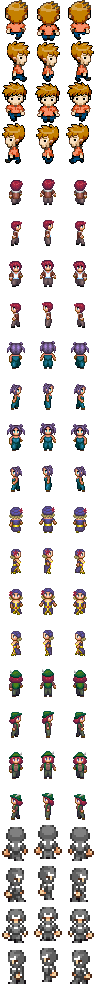
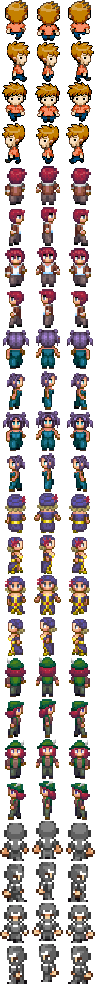
Match wardrobe character pixel heights and label Blond in Chinese

diff --git a/arena/avatars.js b/arena/avatars.js
@@ -1,2 +1,2 @@
-window.ArenaAvatarCatalog=[{"id": "ariel", "zh": "Ariel", "en": "Ariel"}, {"id": "cabbit-townfolk-m", "zh": "红发旅人", "en": "Red-haired traveler"}, {"id": "cabbit-townfolk-f", "zh": "紫发旅人", "en": "Purple-haired traveler"}, {"id": "cabbit-amanda", "zh": "金发帽子女孩", "en": "Amanda"}, {"id": "cabbit-ranger-f", "zh": "绿帽游侠", "en": "Green ranger"}, {"id": "antifarea-ninja-m", "zh": "黑衣忍者", "en": "Ninja"}];
+window.ArenaAvatarCatalog=[{"id": "ariel", "zh": "黄毛", "en": "Blond"}, {"id": "cabbit-townfolk-m", "zh": "红发旅人", "en": "Red-haired traveler"}, {"id": "cabbit-townfolk-f", "zh": "紫发旅人", "en": "Purple-haired traveler"}, {"id": "cabbit-amanda", "zh": "金发帽子女孩", "en": "Amanda"}, {"id": "cabbit-ranger-f", "zh": "绿帽游侠", "en": "Green ranger"}, {"id": "antifarea-ninja-m", "zh": "黑衣忍者", "en": "Ninja"}];
 window.ArenaAvatarFrames={"ariel-back": {"x": 32, "y": 0, "w": 32, "h": 41}, "ariel-back-walk.000": {"x": 0, "y": 0, "w": 32, "h": 41}, "ariel-back-walk.001": {"x": 32, "y": 0, "w": 32, "h": 41}, "ariel-back-walk.002": {"x": 64, "y": 0, "w": 32, "h": 41}, "ariel-back-walk.003": {"x": 32, "y": 0, "w": 32, "h": 41}, "ariel-right": {"x": 32, "y": 41, "w": 32, "h": 41}, "ariel-right-walk.000": {"x": 0, "y": 41, "w": 32, "h": 41}, "ariel-right-walk.001": {"x": 32, "y": 41, "w": 32, "h": 41}, "ariel-right-walk.002": {"x": 64, "y": 41, "w": 32, "h": 41}, "ariel-right-walk.003": {"x": 32, "y": 41, "w": 32, "h": 41}, "ariel-front": {"x": 32, "y": 82, "w": 32, "h": 41}, "ariel-front-walk.000": {"x": 0, "y": 82, "w": 32, "h": 41}, "ariel-front-walk.001": {"x": 32, "y": 82, "w": 32, "h": 41}, "ariel-front-walk.002": {"x": 64, "y": 82, "w": 32, "h": 41}, "ariel-front-walk.003": {"x": 32, "y": 82, "w": 32, "h": 41}, "ariel-left": {"x": 32, "y": 123, "w": 32, "h": 41}, "ariel-left-walk.000": {"x": 0, "y": 123, "w": 32, "h": 41}, "ariel-left-walk.001": {"x": 32, "y": 123, "w": 32, "h": 41}, "ariel-left-walk.002": {"x": 64, "y": 123, "w": 32, "h": 41}, "ariel-left-walk.003": {"x": 32, "y": 123, "w": 32, "h": 41}, "cabbit-townfolk-m-back": {"x": 32, "y": 164, "w": 32, "h": 41}, "cabbit-townfolk-m-back-walk.000": {"x": 0, "y": 164, "w": 32, "h": 41}, "cabbit-townfolk-m-back-walk.001": {"x": 32, "y": 164, "w": 32, "h": 41}, "cabbit-townfolk-m-back-walk.002": {"x": 64, "y": 164, "w": 32, "h": 41}, "cabbit-townfolk-m-back-walk.003": {"x": 32, "y": 164, "w": 32, "h": 41}, "cabbit-townfolk-m-right": {"x": 32, "y": 205, "w": 32, "h": 41}, "cabbit-townfolk-m-right-walk.000": {"x": 0, "y": 205, "w": 32, "h": 41}, "cabbit-townfolk-m-right-walk.001": {"x": 32, "y": 205, "w": 32, "h": 41}, "cabbit-townfolk-m-right-walk.002": {"x": 64, "y": 205, "w": 32, "h": 41}, "cabbit-townfolk-m-right-walk.003": {"x": 32, "y": 205, "w": 32, "h": 41}, "cabbit-townfolk-m-front": {"x": 32, "y": 246, "w": 32, "h": 41}, "cabbit-townfolk-m-front-walk.000": {"x": 0, "y": 246, "w": 32, "h": 41}, "cabbit-townfolk-m-front-walk.001": {"x": 32, "y": 246, "w": 32, "h": 41}, "cabbit-townfolk-m-front-walk.002": {"x": 64, "y": 246, "w": 32, "h": 41}, "cabbit-townfolk-m-front-walk.003": {"x": 32, "y": 246, "w": 32, "h": 41}, "cabbit-townfolk-m-left": {"x": 32, "y": 287, "w": 32, "h": 41}, "cabbit-townfolk-m-left-walk.000": {"x": 0, "y": 287, "w": 32, "h": 41}, "cabbit-townfolk-m-left-walk.001": {"x": 32, "y": 287, "w": 32, "h": 41}, "cabbit-townfolk-m-left-walk.002": {"x": 64, "y": 287, "w": 32, "h": 41}, "cabbit-townfolk-m-left-walk.003": {"x": 32, "y": 287, "w": 32, "h": 41}, "cabbit-townfolk-f-back": {"x": 32, "y": 328, "w": 32, "h": 41}, "cabbit-townfolk-f-back-walk.000": {"x": 0, "y": 328, "w": 32, "h": 41}, "cabbit-townfolk-f-back-walk.001": {"x": 32, "y": 328, "w": 32, "h": 41}, "cabbit-townfolk-f-back-walk.002": {"x": 64, "y": 328, "w": 32, "h": 41}, "cabbit-townfolk-f-back-walk.003": {"x": 32, "y": 328, "w": 32, "h": 41}, "cabbit-townfolk-f-right": {"x": 32, "y": 369, "w": 32, "h": 41}, "cabbit-townfolk-f-right-walk.000": {"x": 0, "y": 369, "w": 32, "h": 41}, "cabbit-townfolk-f-right-walk.001": {"x": 32, "y": 369, "w": 32, "h": 41}, "cabbit-townfolk-f-right-walk.002": {"x": 64, "y": 369, "w": 32, "h": 41}, "cabbit-townfolk-f-right-walk.003": {"x": 32, "y": 369, "w": 32, "h": 41}, "cabbit-townfolk-f-front": {"x": 32, "y": 410, "w": 32, "h": 41}, "cabbit-townfolk-f-front-walk.000": {"x": 0, "y": 410, "w": 32, "h": 41}, "cabbit-townfolk-f-front-walk.001": {"x": 32, "y": 410, "w": 32, "h": 41}, "cabbit-townfolk-f-front-walk.002": {"x": 64, "y": 410, "w": 32, "h": 41}, "cabbit-townfolk-f-front-walk.003": {"x": 32, "y": 410, "w": 32, "h": 41}, "cabbit-townfolk-f-left": {"x": 32, "y": 451, "w": 32, "h": 41}, "cabbit-townfolk-f-left-walk.000": {"x": 0, "y": 451, "w": 32, "h": 41}, "cabbit-townfolk-f-left-walk.001": {"x": 32, "y": 451, "w": 32, "h": 41}, "cabbit-townfolk-f-left-walk.002": {"x": 64, "y": 451, "w": 32, "h": 41}, "cabbit-townfolk-f-left-walk.003": {"x": 32, "y": 451, "w": 32, "h": 41}, "cabbit-amanda-back": {"x": 32, "y": 492, "w": 32, "h": 41}, "cabbit-amanda-back-walk.000": {"x": 0, "y": 492, "w": 32, "h": 41}, "cabbit-amanda-back-walk.001": {"x": 32, "y": 492, "w": 32, "h": 41}, "cabbit-amanda-back-walk.002": {"x": 64, "y": 492, "w": 32, "h": 41}, "cabbit-amanda-back-walk.003": {"x": 32, "y": 492, "w": 32, "h": 41}, "cabbit-amanda-right": {"x": 32, "y": 533, "w": 32, "h": 41}, "cabbit-amanda-right-walk.000": {"x": 0, "y": 533, "w": 32, "h": 41}, "cabbit-amanda-right-walk.001": {"x": 32, "y": 533, "w": 32, "h": 41}, "cabbit-amanda-right-walk.002": {"x": 64, "y": 533, "w": 32, "h": 41}, "cabbit-amanda-right-walk.003": {"x": 32, "y": 533, "w": 32, "h": 41}, "cabbit-amanda-front": {"x": 32, "y": 574, "w": 32, "h": 41}, "cabbit-amanda-front-walk.000": {"x": 0, "y": 574, "w": 32, "h": 41}, "cabbit-amanda-front-walk.001": {"x": 32, "y": 574, "w": 32, "h": 41}, "cabbit-amanda-front-walk.002": {"x": 64, "y": 574, "w": 32, "h": 41}, "cabbit-amanda-front-walk.003": {"x": 32, "y": 574, "w": 32, "h": 41}, "cabbit-amanda-left": {"x": 32, "y": 615, "w": 32, "h": 41}, "cabbit-amanda-left-walk.000": {"x": 0, "y": 615, "w": 32, "h": 41}, "cabbit-amanda-left-walk.001": {"x": 32, "y": 615, "w": 32, "h": 41}, "cabbit-amanda-left-walk.002": {"x": 64, "y": 615, "w": 32, "h": 41}, "cabbit-amanda-left-walk.003": {"x": 32, "y": 615, "w": 32, "h": 41}, "cabbit-ranger-f-back": {"x": 32, "y": 656, "w": 32, "h": 41}, "cabbit-ranger-f-back-walk.000": {"x": 0, "y": 656, "w": 32, "h": 41}, "cabbit-ranger-f-back-walk.001": {"x": 32, "y": 656, "w": 32, "h": 41}, "cabbit-ranger-f-back-walk.002": {"x": 64, "y": 656, "w": 32, "h": 41}, "cabbit-ranger-f-back-walk.003": {"x": 32, "y": 656, "w": 32, "h": 41}, "cabbit-ranger-f-right": {"x": 32, "y": 697, "w": 32, "h": 41}, "cabbit-ranger-f-right-walk.000": {"x": 0, "y": 697, "w": 32, "h": 41}, "cabbit-ranger-f-right-walk.001": {"x": 32, "y": 697, "w": 32, "h": 41}, "cabbit-ranger-f-right-walk.002": {"x": 64, "y": 697, "w": 32, "h": 41}, "cabbit-ranger-f-right-walk.003": {"x": 32, "y": 697, "w": 32, "h": 41}, "cabbit-ranger-f-front": {"x": 32, "y": 738, "w": 32, "h": 41}, "cabbit-ranger-f-front-walk.000": {"x": 0, "y": 738, "w": 32, "h": 41}, "cabbit-ranger-f-front-walk.001": {"x": 32, "y": 738, "w": 32, "h": 41}, "cabbit-ranger-f-front-walk.002": {"x": 64, "y": 738, "w": 32, "h": 41}, "cabbit-ranger-f-front-walk.003": {"x": 32, "y": 738, "w": 32, "h": 41}, "cabbit-ranger-f-left": {"x": 32, "y": 779, "w": 32, "h": 41}, "cabbit-ranger-f-left-walk.000": {"x": 0, "y": 779, "w": 32, "h": 41}, "cabbit-ranger-f-left-walk.001": {"x": 32, "y": 779, "w": 32, "h": 41}, "cabbit-ranger-f-left-walk.002": {"x": 64, "y": 779, "w": 32, "h": 41}, "cabbit-ranger-f-left-walk.003": {"x": 32, "y": 779, "w": 32, "h": 41}, "antifarea-ninja-m-back": {"x": 32, "y": 820, "w": 32, "h": 41}, "antifarea-ninja-m-back-walk.000": {"x": 0, "y": 820, "w": 32, "h": 41}, "antifarea-ninja-m-back-walk.001": {"x": 32, "y": 820, "w": 32, "h": 41}, "antifarea-ninja-m-back-walk.002": {"x": 64, "y": 820, "w": 32, "h": 41}, "antifarea-ninja-m-back-walk.003": {"x": 32, "y": 820, "w": 32, "h": 41}, "antifarea-ninja-m-right": {"x": 32, "y": 861, "w": 32, "h": 41}, "antifarea-ninja-m-right-walk.000": {"x": 0, "y": 861, "w": 32, "h": 41}, "antifarea-ninja-m-right-walk.001": {"x": 32, "y": 861, "w": 32, "h": 41}, "antifarea-ninja-m-right-walk.002": {"x": 64, "y": 861, "w": 32, "h": 41}, "antifarea-ninja-m-right-walk.003": {"x": 32, "y": 861, "w": 32, "h": 41}, "antifarea-ninja-m-front": {"x": 32, "y": 902, "w": 32, "h": 41}, "antifarea-ninja-m-front-walk.000": {"x": 0, "y": 902, "w": 32, "h": 41}, "antifarea-ninja-m-front-walk.001": {"x": 32, "y": 902, "w": 32, "h": 41}, "antifarea-ninja-m-front-walk.002": {"x": 64, "y": 902, "w": 32, "h": 41}, "antifarea-ninja-m-front-walk.003": {"x": 32, "y": 902, "w": 32, "h": 41}, "antifarea-ninja-m-left": {"x": 32, "y": 943, "w": 32, "h": 41}, "antifarea-ninja-m-left-walk.000": {"x": 0, "y": 943, "w": 32, "h": 41}, "antifarea-ninja-m-left-walk.001": {"x": 32, "y": 943, "w": 32, "h": 41}, "antifarea-ninja-m-left-walk.002": {"x": 64, "y": 943, "w": 32, "h": 41}, "antifarea-ninja-m-left-walk.003": {"x": 32, "y": 943, "w": 32, "h": 41}};

diff --git a/arena/credits.html b/arena/credits.html
@@ -1,1 +1,1 @@
-<!doctype html><html lang="zh"><meta charset="UTF-8"><meta name="viewport" content="width=device-width,initial-scale=1"><title>素材署名 / Character art credits</title><style>body{max-width:760px;margin:30px auto;padding:16px;font:16px/1.6 system-ui;color:#303030}a{overflow-wrap:anywhere}</style><h1>角色素材署名 / Character art credits</h1><p>本页在新标签打开，关闭此页即可回到衣柜。Close this tab to return to your wardrobe.</p><h2>四款 Cabbit 角色</h2><p>24x32 characters with faces by <strong>Svetlana Kushnariova (Cabbit)</strong>, <a href="mailto:lana-chan@yandex.ru">lana-chan@yandex.ru</a>.</p><p><a href="https://opengameart.org/content/24x32-characters-with-faces-big-pack">原作品 / Source</a> · <a href="https://creativecommons.org/licenses/by/3.0/">CC BY 3.0</a> · <a href="licenses/cabbit-CC-BY-3.0.txt">许可全文 / License text</a></p><p>修改：背景调色板透明化、裁切精灵帧、保留原生24×32像素、脚底居中补齐透明32×41画布、整理动画；未使用头像。Modified: background transparency, sprite cropping, native-size bottom-centered padding and animation mapping; faces not used.</p><h2>黑衣忍者 / Ninja</h2><p>Art by <strong>Antifarea (Charles Gabriel)</strong>, commissioned by OpenGameArt.org.</p><p><a href="https://opengameart.org/content/twelve-16x18-rpg-sprites-plus-base">原作品 / Source</a> · <a href="https://creativecommons.org/licenses/by/3.0/">CC BY 3.0</a> · <a href="licenses/antifarea-CC-BY-3.0.txt">许可全文 / License text</a></p><p>修改：背景透明化，裁切16×18原帧，最近邻整数2倍放大到32×36，脚底居中补齐32×41透明画布并整理动画。Modified: transparency, cropping, nearest-neighbor 2× enlargement, bottom-centered padding and animation mapping.</p><h2>Ariel / 现有游戏素材</h2><p>Ariel 保留现有游戏素材，来源 <a href="https://github.com/ariroffe/personal-website">ariroffe/personal-website</a>。其他艺术保留各自原许可；代码MIT许可不覆盖艺术资产。The existing Ariel is retained; code licensing does not override individual art licenses.</p></html>
+<!doctype html><html lang="zh"><meta charset="UTF-8"><meta name="viewport" content="width=device-width,initial-scale=1"><title>素材署名 / Character art credits</title><style>body{max-width:760px;margin:30px auto;padding:16px;font:16px/1.6 system-ui;color:#303030}a{overflow-wrap:anywhere}</style><h1>角色素材署名 / Character art credits</h1><p>本页在新标签打开，关闭此页即可回到衣柜。Close this tab to return to your wardrobe.</p><h2>四款 Cabbit 角色</h2><p>24x32 characters with faces by <strong>Svetlana Kushnariova (Cabbit)</strong>, <a href="mailto:lana-chan@yandex.ru">lana-chan@yandex.ru</a>.</p><p><a href="https://opengameart.org/content/24x32-characters-with-faces-big-pack">原作品 / Source</a> · <a href="https://creativecommons.org/licenses/by/3.0/">CC BY 3.0</a> · <a href="licenses/cabbit-CC-BY-3.0.txt">许可全文 / License text</a></p><p>修改：背景调色板透明化、裁切精灵帧、全角色固定最近邻等比放大（约1.43–1.5倍）、脚底居中补齐透明32×41画布、整理动画；未使用头像。Modified: background transparency, sprite cropping, fixed per-character nearest-neighbor enlargement (about 1.43–1.5×), bottom-centered padding and animation mapping; faces not used.</p><h2>黑衣忍者 / Ninja</h2><p>Art by <strong>Antifarea (Charles Gabriel)</strong>, commissioned by OpenGameArt.org.</p><p><a href="https://opengameart.org/content/twelve-16x18-rpg-sprites-plus-base">原作品 / Source</a> · <a href="https://creativecommons.org/licenses/by/3.0/">CC BY 3.0</a> · <a href="licenses/antifarea-CC-BY-3.0.txt">许可全文 / License text</a></p><p>修改：背景透明化，裁切16×18原帧，固定最近邻约2.22倍等比放大（非空范围31×40），脚底居中补齐32×41透明画布并整理动画。Modified: transparency, cropping, fixed nearest-neighbor approximately 2.22× enlargement (visible union 31×40), bottom-centered padding and animation mapping.</p><h2>Ariel / 现有游戏素材</h2><p>Ariel 保留现有游戏素材，来源 <a href="https://github.com/ariroffe/personal-website">ariroffe/personal-website</a>。其他艺术保留各自原许可；代码MIT许可不覆盖艺术资产。The existing Ariel is retained; code licensing does not override individual art licenses.</p></html>

diff --git a/arena/index.html b/arena/index.html
@@ -2,8 +2,8 @@
 <html lang="zh"><head><meta charset="UTF-8"><meta name="viewport" content="width=device-width,initial-scale=1,user-scalable=no"><title>竞技场 — CoinValue</title>
 <link rel="stylesheet" href="../style.css?v=20261008pe"><link rel="stylesheet" href="../nav-pe.css?v=20261024nav"><link rel="stylesheet" href="arena.css?v=20261102back1">
 <script defer src="../i18n.js?v=20261102wugui"></script>
-<link rel="stylesheet" href="welcome-notice.css?v=20261102welcome"><link rel="stylesheet" href="wardrobe.css?v=20261102six"><script defer src="avatars.js?v=20261102six"></script><script defer src="wardrobe.js?v=20261102six"></script><script defer src="vendor/colyseus-0.18.9.min.js"></script><script defer src="multiplayer.js?v=20261102six"></script>
-<script defer src="vendor/phaser.min.js"></script><script defer src="music.js?v=20261031m"></script><script defer src="battle.js?v=20261102chat"></script><script defer src="bets.js?v=20261101u"></script><script defer src="game.js?v=20261102welcome"></script>
+<link rel="stylesheet" href="welcome-notice.css?v=20261102welcome"><link rel="stylesheet" href="wardrobe.css?v=20261102six"><script defer src="avatars.js?v=20261102size1"></script><script defer src="wardrobe.js?v=20261102size1"></script><script defer src="vendor/colyseus-0.18.9.min.js"></script><script defer src="multiplayer.js?v=20261102six"></script>
+<script defer src="vendor/phaser.min.js"></script><script defer src="music.js?v=20261031m"></script><script defer src="battle.js?v=20261102chat"></script><script defer src="bets.js?v=20261101u"></script><script defer src="game.js?v=20261102size1"></script>
 <script defer src="chat.js?v=20261102six"></script>
 <script data-goatcounter="https://cryptomiao.goatcounter.com/count" async src="//gc.zgo.at/count.js"></script></head>
 <body data-page="arena"><div class="topbar"><a class="logo" href="https://value.miao77.xyz/pe-list.html"><span class="dot"></span>CoinValue</a><nav class="topnav"><a href="https://poke.miao77.xyz/" class="active" aria-current="page" data-i18n="nav.arena">乌龟Poke</a><details class="nav-pe"><summary data-i18n="nav.pe">PE 监控</summary><div class="nav-pe-menu"><a href="https://value.miao77.xyz/pe-list.html" data-i18n="nav.peAll">全部总览</a><a href="https://value.miao77.xyz/hype-pe.html">HYPE PE</a><a href="https://value.miao77.xyz/uni-pe.html">UNI PE</a><a href="https://value.miao77.xyz/bnb-pe.html">BNB PE</a><a href="https://value.miao77.xyz/aave-pe.html">AAVE PE</a></div></details>

diff --git a/arena/wardrobe.js b/arena/wardrobe.js
@@ -2,7 +2,7 @@
 'use strict';
 const t=(zh,en)=>window.I18n?.lang==='en'?en:zh;
 let opened=false,busy=false,returnFocus=null,selected=null,direction='front',walking=false,timer=null,beat=0;
-const image=new Image();image.src='assets/players.png?v=20261102six';
+const image=new Image();image.src='assets/players.png?v=20261102size1';
 const panel=document.createElement('section');panel.id='wardrobe-panel';panel.hidden=true;panel.setAttribute('role','dialog');panel.setAttribute('aria-modal','true');panel.setAttribute('aria-labelledby','wardrobe-title');document.querySelector('.arena-wrap').append(panel);
 function node(tag,text){const el=document.createElement(tag);if(text!==undefined)el.textContent=text;return el;}
 function reset(){const ui=window.ArenaUI;if(ui){ui.pad.held=null;ui.pad.action=false;}for(const s of ui?.game?.scene.scenes||[])if(s.input?.keyboard){s.input.keyboard.resetKeys();s.input.keyboard.enabled=!opened&&!window.ArenaChat?.isTyping();}}

diff --git a/arena/game.js b/arena/game.js
@@ -802,7 +802,7 @@
       this.load.image('wardrobe','assets/wardrobe.png?v=20261102wardrobe2');
       this.load.image('tiles', 'assets/tileset.png');
       this.load.tilemapTiledJSON('map', 'assets/arena.json?v=20261102wardrobe2');
-      this.load.atlas('player', 'assets/players.png?v=20261102six', 'assets/players.json?v=20261102six');
+      this.load.atlas('player', 'assets/players.png?v=20261102size1', 'assets/players.json?v=20261102size1');
       this.load.image('board', 'assets/board.png?v=20261101ad');        // title plank says 竞技场
       this.load.image('board-en', 'assets/board-en.png?v=20261101ad');  // ... or ARENA
       for (const n of ['signup', 'trial']) for (const sfx of ['', '-en'])   // counter-top labels
